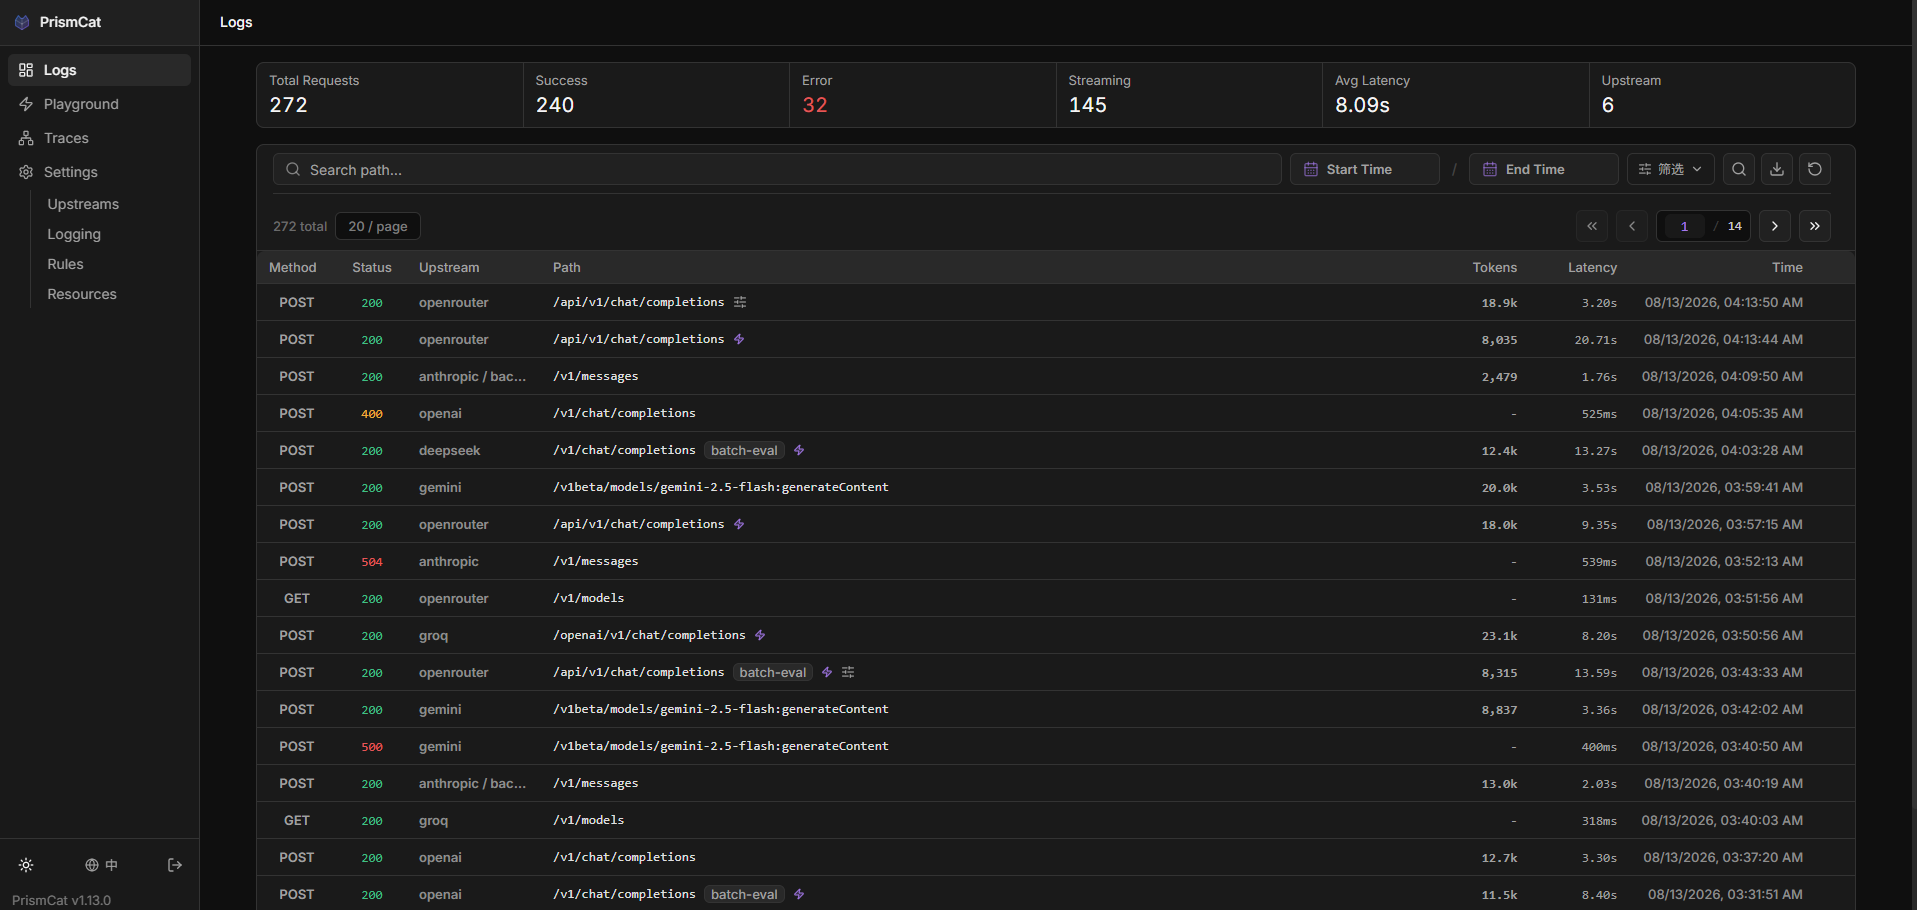
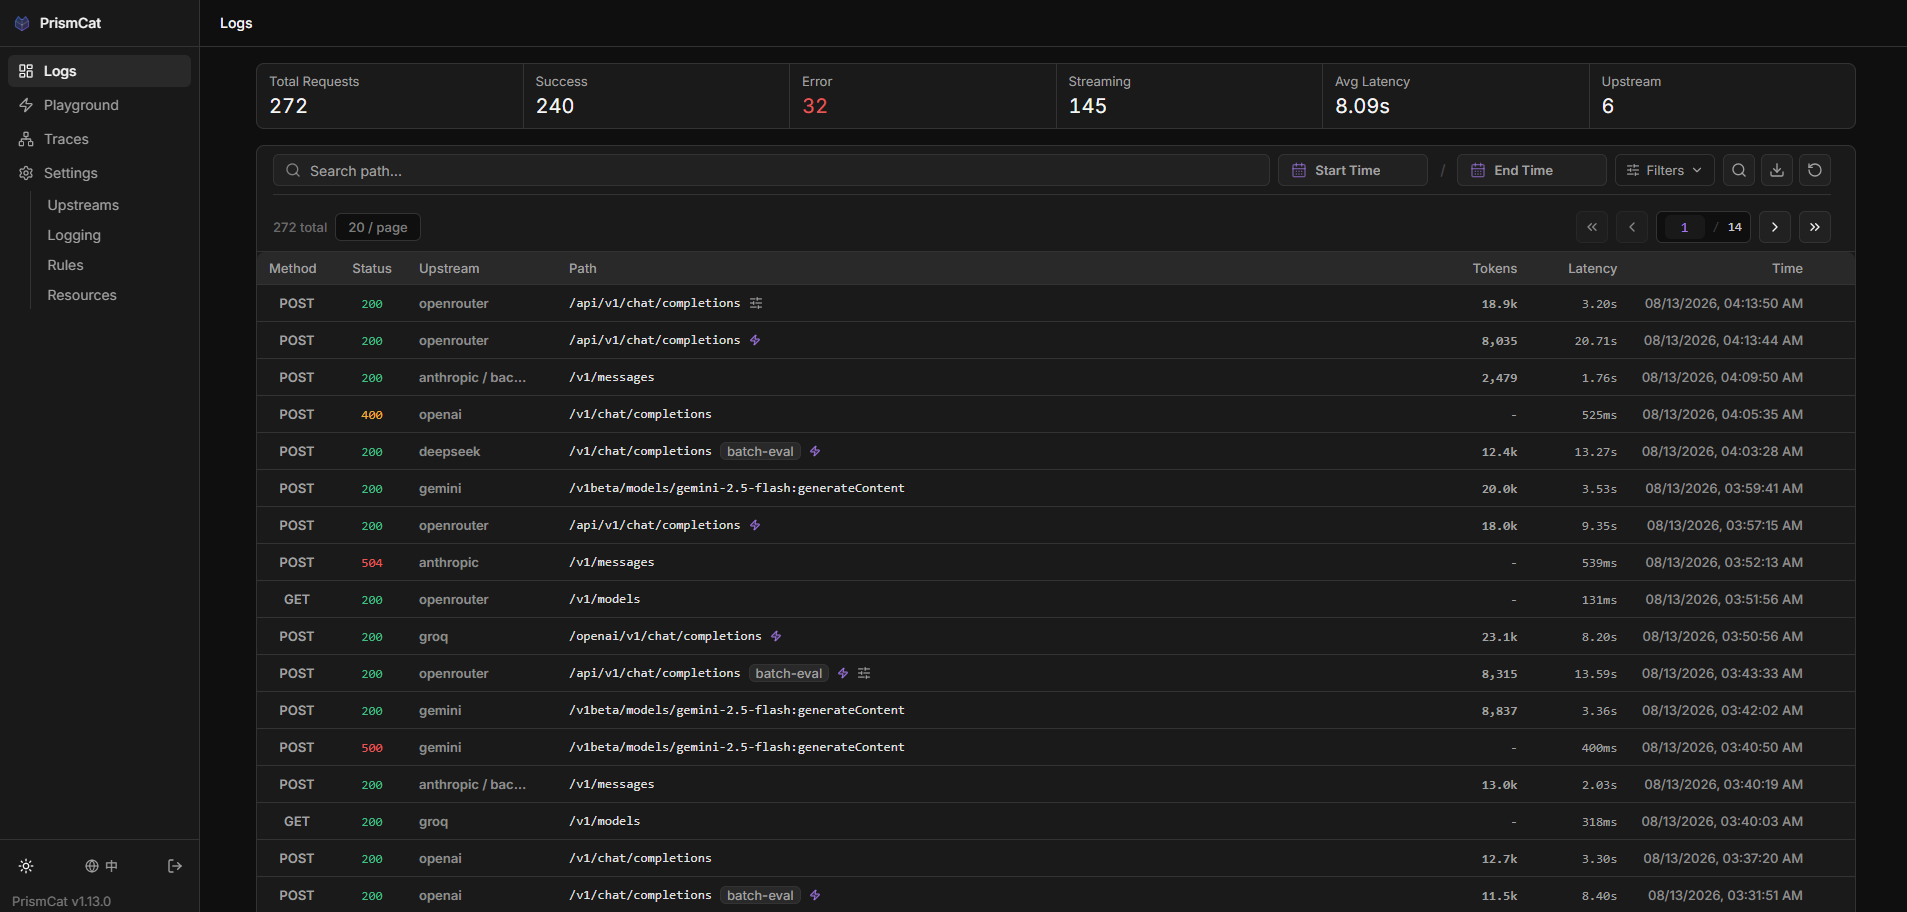
refactor(i18n): 删掉全部 30 处中文兜底,加 lint 规则挡住复发
t('key', '中文') 里的兜底是 bug 的成因而不是保险:key 缺失时它静默地把中文
漏给英文用户。README 首图那次英文界面显示「筛选」就是这么来的。不传兜底的话,
缺 key 会渲染成 key 本身,一眼就能看见。

- 删除 30 处(LogDetail 12 / LogTable 6 / Settings 6 / StatsCards 4 /
  DateRangePicker 2)。删之前逐个核对过 key 在中英文里都存在
- eslint 新增规则:禁止给 t() 传含中日韩字符的字面量参数

另外两处:
- 日志表上游列真正截断的是单元格上的 max-w-[110px],不是表头的 w-,
  LogTable 是 auto 布局。放到 150px,"anthropic / backup" 不再截成 "bac…"
- 删除 assets/dashboard.png:换成 logs-light/dark 之后已无人引用,
  且是四月那版早已不存在的界面

diff --git a/web/src/components/LogDetail.tsx b/web/src/components/LogDetail.tsx
@@ -565,7 +565,7 @@ export function LogDetail({
     const emptyStateClassName = "rounded-lg border border-dashed border-border bg-muted/50 px-4 py-6 text-center"
 
     const CopyButton = ({ text, field }: { text: string; field: string }) => {
-        const label = copiedField === field ? t('common.copied', '已复制') : t('common.copy', '复制')
+        const label = copiedField === field ? t('common.copied') : t('common.copy')
         return (
             <Tooltip>
                 <TooltipTrigger asChild>
@@ -650,7 +650,7 @@ export function LogDetail({
         onChange: (mode: JsonExpandMode) => void
     }) => {
         const willExpand = mode !== 'all'
-        const label = willExpand ? t('log_detail.expand_all', '展开全部') : t('log_detail.collapse_all', '折叠全部')
+        const label = willExpand ? t('log_detail.expand_all') : t('log_detail.collapse_all')
         return (
             <Tooltip>
                 <TooltipTrigger asChild>
@@ -922,7 +922,7 @@ export function LogDetail({
                                 className="h-8 gap-1.5 rounded-lg px-3 text-xs font-semibold"
                             >
                                 {annotation.saved ? <BookmarkCheck className="h-3.5 w-3.5" /> : <Bookmark className="h-3.5 w-3.5" />}
-                                {annotation.saved ? t('log_annotation.saved', '已保存') : t('log_annotation.save', '保存')}
+                                {annotation.saved ? t('log_annotation.saved') : t('log_annotation.save')}
                             </Button>
                             <Button
                                 type="button"
@@ -939,7 +939,7 @@ export function LogDetail({
                                 )}
                             >
                                 <CircleDot className="h-3.5 w-3.5" />
-                                {t('log_annotation.todo', '待处理')}
+                                {t('log_annotation.todo')}
                             </Button>
                             <Button
                                 type="button"
@@ -956,7 +956,7 @@ export function LogDetail({
                                 )}
                             >
                                 <CheckCircle2 className="h-3.5 w-3.5" />
-                                {t('log_annotation.done', '已处理')}
+                                {t('log_annotation.done')}
                             </Button>
                             {annotationSaving && (
                                 <span className="text-xs font-medium text-muted-foreground">{t('common.loading')}</span>
@@ -981,7 +981,7 @@ export function LogDetail({
                                 <textarea
                                     value={annotationNote}
                                     onChange={(event) => setAnnotationNote(event.target.value)}
-                                    placeholder={t('log_annotation.note_placeholder', '写下为什么保存这条日志，或后续要检查什么...')}
+                                    placeholder={t('log_annotation.note_placeholder')}
                                     className={cn('min-h-20 resize-y rounded-lg border border-border bg-muted/40 px-3 py-2 text-sm leading-relaxed transition-colors placeholder:text-muted-foreground/70 focus-visible:bg-background', FOCUS_RING)}
                                 />
                                 <div className="space-y-2">
@@ -990,7 +990,7 @@ export function LogDetail({
                                         <input
                                             value={annotationLabels}
                                             onChange={(event) => setAnnotationLabels(event.target.value)}
-                                            placeholder={t('log_annotation.labels_placeholder', '标签，用逗号分隔')}
+                                            placeholder={t('log_annotation.labels_placeholder')}
                                             className={cn('h-10 w-full rounded-lg border border-border bg-muted/40 pl-9 pr-3 text-sm transition-colors placeholder:text-muted-foreground/70 focus-visible:bg-background', FOCUS_RING)}
                                         />
                                     </div>
@@ -1002,7 +1002,7 @@ export function LogDetail({
                                         className="h-8 w-full rounded-lg text-xs font-semibold"
                                     >
                                         <Check className="mr-1.5 h-3.5 w-3.5" />
-                                        {t('log_annotation.save_note', '保存备注')}
+                                        {t('log_annotation.save_note')}
                                     </Button>
                                 </div>
                             </div>
@@ -1380,7 +1380,7 @@ export function LogDetail({
                                                         <JsonViewer data={mergedResponse.merged} expandMode={responseExpandMode} searchTerm={effectiveResponseSearchTerm || undefined} searchPlan={responseJsonSearchPlan} />
                                                     ) : (
                                                         <div className={cn(emptyStateClassName, "text-xs italic text-muted-foreground")}>
-                                                            {t('log_detail.stream_merge_unavailable', '当前无法生成合并视图，请切换到 Raw 查看原始内容。')}
+                                                            {t('log_detail.stream_merge_unavailable')}
                                                         </div>
                                                     )
                                                 ) : (

diff --git a/web/src/components/LogTable.tsx b/web/src/components/LogTable.tsx
@@ -255,7 +255,7 @@ export function LogTable({ logs, loading, onSelect, selectedId }: LogTableProps)
                 <div className="text-5xl sm:text-6xl mb-6 grayscale opacity-50">📭</div>
                 <div className="text-lg sm:text-xl font-semibold tracking-tight text-foreground/70 text-center">{t('log_table.no_logs')}</div>
                 <p className="text-sm mt-2 max-w-[280px] text-center leading-relaxed font-medium text-muted-foreground/80">
-                    {t('log_table.send_requests_hint', '发送一些请求后这里会显示日志')}
+                    {t('log_table.send_requests_hint')}
                 </p>
             </div>
         )
@@ -272,10 +272,10 @@ export function LogTable({ logs, loading, onSelect, selectedId }: LogTableProps)
                         onSelect={onSelect}
                         dateLabel={formatDate(log.created_at, i18n.language)}
                         detailLabel={t('common.details')}
-                        savedLabel={t('log_annotation.saved', '已保存')}
-                        todoLabel={t('log_annotation.todo', '待处理')}
-                        doneLabel={t('log_annotation.done', '已处理')}
-                        streamingLabel={t('log_detail.streaming', '流式')}
+                        savedLabel={t('log_annotation.saved')}
+                        todoLabel={t('log_annotation.todo')}
+                        doneLabel={t('log_annotation.done')}
+                        streamingLabel={t('log_detail.streaming')}
                         modifiedLabel={t('log_detail.modified', 'MODIFIED')}
                         tokensLabel={t('log_table.tokens', 'Tokens')}
                         showUsage={showUsage}
@@ -333,7 +333,9 @@ export function LogTable({ logs, loading, onSelect, selectedId }: LogTableProps)
                                     </span>
                                 </TableCell>
                                 <TableCell>
-                                    <span className="block max-w-[110px] truncate text-xs font-semibold text-muted-foreground/85">
+                                    {/* 真正决定截断的是这个 max-w,不是表头的 w- ——
+                                        LogTable 是 auto 布局,w- 只是提示。要放宽得改这里 */}
+                                    <span className="block max-w-[150px] truncate text-xs font-semibold text-muted-foreground/85">
                                         {log.upstream}{log.upstream_target ? ` / ${log.upstream_target}` : ''}
                                     </span>
                                 </TableCell>
@@ -380,7 +382,7 @@ export function LogTable({ logs, loading, onSelect, selectedId }: LogTableProps)
                                                     </div>
                                                 </TooltipTrigger>
                                                 <TooltipContent side="right">
-                                                    <p className="text-xs font-medium">{t('log_detail.streaming', '流式响应')}</p>
+                                                    <p className="text-xs font-medium">{t('log_detail.streaming')}</p>
                                                 </TooltipContent>
                                             </Tooltip>
                                         )}

diff --git a/web/src/pages/Settings.tsx b/web/src/pages/Settings.tsx
@@ -3280,7 +3280,7 @@ export function Settings() {
                                                                 className="flex w-full items-center justify-between gap-3 px-4 py-3 text-left text-xs font-semibold text-muted-foreground transition-colors hover:text-foreground"
                                                             >
                                                                 <span>{t('settings.request_override_raw_rule')}</span>
-                                                                <span>{selectedRuleAdvancedOpen ? t('common.hide', '隐藏') : t('common.show', '显示')}</span>
+                                                                <span>{selectedRuleAdvancedOpen ? t('common.hide') : t('common.show')}</span>
                                                             </button>
                                                             {selectedRuleAdvancedOpen && (
                                                                 <div className="space-y-2 border-t border-input p-3">
@@ -3315,7 +3315,7 @@ export function Settings() {
                                                 className="flex w-full items-center justify-between gap-3 px-3 py-2 text-left text-xs font-semibold text-muted-foreground transition-colors hover:text-foreground"
                                             >
                                                 <span>{t('settings.request_override_advanced_json')}</span>
-                                                <span>{advancedRulesOpen ? t('common.hide', '隐藏') : t('common.show', '显示')}</span>
+                                                <span>{advancedRulesOpen ? t('common.hide') : t('common.show')}</span>
                                             </button>
                                             {advancedRulesOpen && (
                                                 <div className="border-t border-input p-3">
@@ -3517,7 +3517,7 @@ export function Settings() {
                                                     className="flex w-full items-center justify-between gap-3 px-3 py-2 text-left text-xs font-semibold text-muted-foreground transition-colors hover:text-foreground"
                                                 >
                                                     <span>{t('settings.usage_extraction_advanced_json')}</span>
-                                                    <span>{usageAdvancedRulesOpen ? t('common.hide', '隐藏') : t('common.show', '显示')}</span>
+                                                    <span>{usageAdvancedRulesOpen ? t('common.hide') : t('common.show')}</span>
                                                 </button>
                                                 {usageAdvancedRulesOpen && (
                                                     <div className="border-t border-input p-3">

diff --git a/web/src/components/StatsCards.tsx b/web/src/components/StatsCards.tsx
@@ -14,11 +14,11 @@ export function StatsCards({ stats, loading }: StatsCardsProps) {
     // 只有错误数带语义色,其余保持中性 —— 一屏一个焦点
     const cards = [
         { title: t('stats.total_requests'), value: (stats?.total_requests ?? 0).toLocaleString() },
-        { title: t('common.success', '成功'), value: (stats?.success_count ?? 0).toLocaleString() },
-        { title: t('common.error', '错误'), value: (stats?.error_count ?? 0).toLocaleString(), tone: 'danger' as const },
-        { title: t('log_detail.streaming', '流式'), value: (stats?.streaming_count ?? 0).toLocaleString() },
+        { title: t('common.success'), value: (stats?.success_count ?? 0).toLocaleString() },
+        { title: t('common.error'), value: (stats?.error_count ?? 0).toLocaleString(), tone: 'danger' as const },
+        { title: t('log_detail.streaming'), value: (stats?.streaming_count ?? 0).toLocaleString() },
         { title: t('stats.avg_latency'), value: formatLatency(stats?.avg_latency_ms ?? 0) },
-        { title: t('log_table.upstream', '上游数量'), value: Object.keys(stats?.by_upstream ?? {}).length.toLocaleString() },
+        { title: t('log_table.upstream'), value: Object.keys(stats?.by_upstream ?? {}).length.toLocaleString() },
     ]
 
     return (

diff --git a/web/eslint.config.js b/web/eslint.config.js
@@ -15,6 +15,11 @@ const PALETTE_HUES = [
 ].join('|')
 const PRIMITIVE_COLOR = String.raw`(text|bg|border|ring|fill|stroke|from|via|to|decoration|outline|divide|placeholder)-(${PALETTE_HUES})-\d{2,3}`
 
+// 禁止 t('key', '中文兜底')。兜底本身就是问题:key 缺失时它会静默地把中文
+// 漏给英文用户,而不是暴露出来。曾经因此让英文界面的筛选按钮显示「筛选」。
+// 不传兜底的话,缺 key 会直接渲染成 key 本身,一眼就能看见。
+const CJK_LITERAL = String.raw`[一-鿿　-〿＀-￯]`
+
 export default defineConfig([
   globalIgnores(['dist']),
   {
@@ -39,6 +44,10 @@ export default defineConfig([
         {
           selector: `TemplateElement[value.raw=/${PRIMITIVE_COLOR}/]`,
           message: '不要直接用 Tailwind 调色板类,改用语义 token:success / warning / danger / info / muted-foreground / border。',
+        },
+        {
+          selector: `CallExpression[callee.name='t'] > Literal[value=/${CJK_LITERAL}/]`,
+          message: '不要给 t() 传中文兜底:key 缺失时它会静默漏中文给英文用户。把文案加进 locales,只传 key。',
         },
       ],
     },

diff --git a/web/src/components/DateRangePicker.tsx b/web/src/components/DateRangePicker.tsx
@@ -100,7 +100,7 @@ export function DateRangePicker({ value, onChange }: DateRangePickerProps) {
             <DateTimePicker
                 value={startDate}
                 onChange={handleStartChange}
-                placeholder={t('filters.start_time', '开始时间')}
+                placeholder={t('filters.start_time')}
                 maxDate={endDate || new Date()}
                 placement="bottom-start"
             />
@@ -108,7 +108,7 @@ export function DateRangePicker({ value, onChange }: DateRangePickerProps) {
             <DateTimePicker
                 value={endDate}
                 onChange={handleEndChange}
-                placeholder={t('filters.end_time', '结束时间')}
+                placeholder={t('filters.end_time')}
                 minDate={startDate || undefined}
                 maxDate={new Date()}
                 placement="bottom-end"
